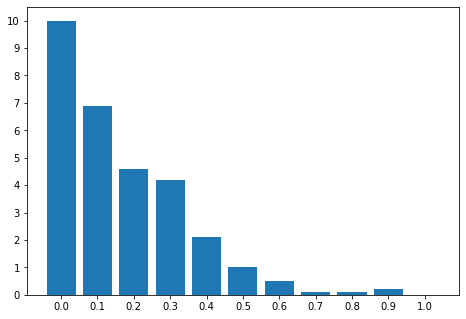
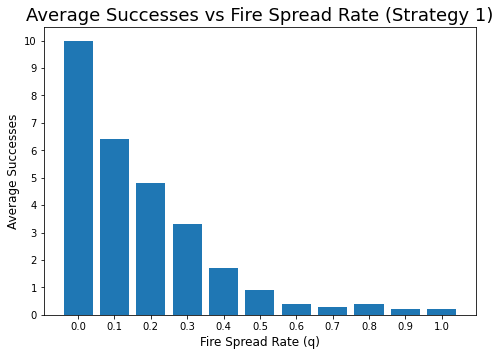
Added test functions

Changed region(s): [[0.0, 0.0, 0.9914, 0.9875], [0.03, 0.2257, 0.0601, 0.2539]]

diff --git a/Project 1/Maze.py b/Project 1/Maze.py
@@ -163,7 +163,7 @@ class SimCoord(Coord):
         return ((1/self._prob[self._x][self._y]) * (self._steps + self.__euclidean_distance())) < ((1/other._prob[other._x][other._y]) * (other._steps + other.__euclidean_distance()))
 
 class MazeGame:
-    def __init__(self, dimension: int, prob: float, fire_spread: float, m=np.array([])):
+    def __init__(self, dimension: int, prob: float, fire_spread=0.0, m=np.array([])):
         """initialize the object
         :param dimension: dimension of the matrix that represents the maze
         :param prob: density of blocked cells in the maze
@@ -180,6 +180,7 @@ class MazeGame:
         self._q = fire_spread
         self._fire_path = None
         self._fire_prob = None
+        self._nodes_explored = None
 
     def generate_maze(self):
         """generate the matrix for the maze game
@@ -198,7 +199,7 @@ class MazeGame:
         :param is_dfs: True/False for dfs/bfs
         :return whether start and goal are reachable from each other
         """
-        
+        self._nodes_explored = 0
         self._matrix = self._m.copy()
         m = self._matrix
         if m[start[0]][start[1]] == 1 or m[goal[0]][goal[1]] == 1:
@@ -209,6 +210,7 @@ class MazeGame:
             if not cell.is_available():
                 continue
             cell.close()  # add restriction
+            self._nodes_explored += 1
             if cell.get_coords() == goal:
                 self._path = cell.get_path()
                 return True
@@ -232,6 +234,7 @@ class MazeGame:
         :param goal: int tuple contains goal coordinates
         :return whether start and goal are reachable from each other
         """
+        self._nodes_explored = 0
         self._matrix = self._m.copy()
         m = self._matrix
         if m[start[0]][start[1]] == 1 or m[goal[0]][goal[1]] == 1:
@@ -244,6 +247,7 @@ class MazeGame:
             if not cell.is_available():
                 continue
             cell.close()  # add restriction
+            self._nodes_explored += 1
             if cell.get_coords() == goal:
                 self._path = cell.get_path()
                 return True
@@ -260,6 +264,12 @@ class MazeGame:
         :return: a list of cells that form the shortest path
         """
         return self._path
+    
+    def get_nodes(self):
+        """getter
+        :return: number of nodes explored
+        """
+        return self._nodes_explored
 
     def get_original_matrix(self):
         """getter
@@ -390,8 +400,7 @@ class MazeGame:
                 return False
             for fire in self._fire_loc:
                 if point[0] == fire[0] and point[1] == fire[1]:
-                    return False
-        
+                    return False        
         
 def test_strat_1(n):
     average_success_per_q = []
@@ -406,7 +415,6 @@ def test_strat_1(n):
             maze = game.get_original_matrix()
             if game.dfs((0,0), (n-1,n-1)) == False:
                 continue
-            print("Maze", i)
             j=1
             while j<= 10:
                 fire_game = MazeGame(n, 0.3, q/10, maze)
@@ -424,7 +432,17 @@ def test_strat_1(n):
             maze_success+=success
         average_success_per_q.append(maze_success/10)
         q+=1
-    return average_success_per_q
+    q_vals = ['0.0', '0.1', '0.2', '0.3', '0.4', '0.5', '0.6', '0.7', '0.8', '0.9', '1.0']
+    avg_success = np.array(average_success_per_q)
+    fig = plt.figure()
+    ax = fig.add_axes([0,0,1,1])
+    ax.bar(q_vals, avg_success)
+    ax.set_title('Average Successes vs Fire Spread Rate (Strategy 1)', fontdict={'fontsize': 18, 'fontweight': 'medium'})
+    plt.yticks(np.arange(0, avg_success.max()+1, 1))
+    plt.xlabel('Fire Spread Rate (q)', fontsize=12)
+    plt.ylabel('Average Successes', fontsize=12)
+    plt.show()
+    
 def test_strat_2(n):
     average_success_per_q = []
     q=0.0
@@ -455,7 +473,16 @@ def test_strat_2(n):
             maze_success+=success
         average_success_per_q.append(maze_success/10)
         q+=1
-    return average_success_per_q
+    q_vals = ['0.0', '0.1', '0.2', '0.3', '0.4', '0.5', '0.6', '0.7', '0.8', '0.9', '1.0']
+    avg_success = np.array(average_success_per_q)
+    fig = plt.figure()
+    ax = fig.add_axes([0,0,1,1])
+    ax.bar(q_vals, avg_success)
+    ax.set_title('Average Successes vs Fire Spread Rate (Strategy 2)', fontdict={'fontsize': 18, 'fontweight': 'medium'})
+    plt.yticks(np.arange(0, avg_success.max()+1, 1))
+    plt.xlabel('Fire Spread Rate (q)', fontsize=12)
+    plt.ylabel('Average Successes', fontsize=12)
+    plt.show()
 
 def test_strat_3(n):
     average_success_per_q = []
@@ -487,13 +514,139 @@ def test_strat_3(n):
             maze_success+=success
         average_success_per_q.append(maze_success/10)
         q+=1
-    return average_success_per_q
+    q_vals = ['0.0', '0.1', '0.2', '0.3', '0.4', '0.5', '0.6', '0.7', '0.8', '0.9', '1.0']
+    avg_success = np.array(average_success_per_q)
+    fig = plt.figure()
+    ax = fig.add_axes([0,0,1,1])
+    ax.bar(q_vals, avg_success)
+    ax.set_title('Average Successes vs Fire Spread Rate (Strategy 3)', fontdict={'fontsize': 18, 'fontweight': 'medium'})
+    plt.yticks(np.arange(0, avg_success.max()+1, 1))
+    plt.xlabel('Fire Spread Rate (q)', fontsize=12)
+    plt.ylabel('Average Successes', fontsize=12)
+    plt.show()
 
+def test_dfs(n, trials):
+    success_prob_per_p = []
+    p = 0.0
+    while p/10 <= 1.0:
+        print(p/10)
+        i=1
+        success = 0
+        while i<=trials:
+            game = MazeGame(n, p/10)
+            if game.dfs((0,0), (n-1, n-1)) == False:
+                i+=1
+                continue
+            else:
+                i+=1
+                success+=1
+        success_prob_per_p.append(success/trials)
+        p+=1
+    p_vals = ['0.0', '0.1', '0.2', '0.3', '0.4', '0.5', '0.6', '0.7', '0.8', '0.9', '1.0']
+    success_prob = np.array(success_prob_per_p)
+    fig = plt.figure()
+    ax = fig.add_axes([0,0,1,1])
+    ax.bar(p_vals, success_prob)
+    ax.set_title('Success Probability vs Obstacle Density', fontdict={'fontsize': 18, 'fontweight': 'medium'})
+    plt.yticks(np.arange(0, 1.1, 0.1))
+    plt.xlabel('Obstacle Density (p)', fontsize=12)
+    plt.ylabel('Success Probability', fontsize=12)
+    plt.show()
+    
+def test_bfs_a_star(n, num_trials):
+    average_node_dif = []
+    p = 0.0
+    while p/10 <= 1.0:
+        print(p/10)
+        i=1
+        node_dif = 0
+        while i<=num_trials:
+            game = MazeGame(n, p/10)
+            game.bfs((0,0), (n-1,n-1))
+            bfs_nodes = game.get_nodes()
+            game.a_star((0,0), (n-1,n-1))
+            a_star_nodes = game.get_nodes()
+            node_dif += (bfs_nodes - a_star_nodes)
+            i+=1
+        average_node_dif.append(node_dif/num_trials)
+        p+=1
+    p_vals = ['0.0', '0.1', '0.2', '0.3', '0.4', '0.5', '0.6', '0.7', '0.8', '0.9', '1.0']
+    avg_node_dif = np.array(average_node_dif)
+    fig = plt.figure()
+    ax = fig.add_axes([0,0,1,1])
+    ax.bar(p_vals, avg_node_dif)
+    ax.set_title('(BFS Nodes - A* Nodes) vs Obstacle Density', fontdict={'fontsize': 18, 'fontweight': 'medium'})
+    plt.yticks(np.arange(0, avg_node_dif.max()+n, n))
+    plt.xlabel('Obstacle Density (p)', fontsize=12)
+    plt.ylabel('BFS Nodes - A* Nodes', fontsize=12)
+    plt.show()
+
+def test_time_bfs():
+    time_consumed = 0
+    size = 2500
+    while time_consumed <= 60:
+        i=1
+        while i <= 5:
+            game = MazeGame(size, 0.3)
+            time_start = time.time()
+            if game.bfs((0,0), (size-1, size-1)) == False:
+                continue
+            time_end = time.time()
+            time_consumed += time_end-time_start
+            i+=1
+        time_consumed = time_consumed/5
+        print(size, ":", time_consumed)
+        size += 100
+    print("Largest BFS size:", size-200, "x", size-200)
+    
+def test_time_dfs():
+    time_consumed = 0
+    size = 650
+    while time_consumed <= 60:
+        i=1
+        while i <= 5:
+            game = MazeGame(size, 0.3)
+            time_start = time.time()
+            if game.dfs((0,0), (size-1, size-1)) == False:
+                continue
+            time_end = time.time()
+            time_consumed += time_end-time_start
+            i+=1
+        time_consumed = time_consumed/5
+        print(size, ":", time_consumed)
+        size += 10
+    print("Largest DFS size:", size-20, "x", size-20)
+
+def test_time_a_star():
+    time_consumed = 0
+    size = 1000
+    while time_consumed <= 60:
+        i=1
+        while i <= 5:
+            game = MazeGame(size, 0.3)
+            time_start = time.time()
+            if game.a_star((0,0), (size-1, size-1)) == False:
+                continue
+            time_end = time.time()
+            time_consumed += time_end-time_start
+            i+=1
+        time_consumed = time_consumed/5
+        print(size, ":", time_consumed)
+        size += 50
+    print("Largest A* size:", size-100, "x", size-100)    
+    
 # Test
 if __name__ == '__main__':
-    n = 10
-    p = 0.3
+    n = 250
+    p = 0.0
     q = 1.0
     
-    print(test_strat_3(n))
-    #print(test_strat_2(n))
+    test_dfs(n, 25)
+    test_bfs_a_star(n, 25)
+    test_time_bfs()
+    test_time_dfs()
+    test_time_a_star()
+    test_strat_1(75)
+    test_strat_2(75)
+    test_strat_3(75)
+    
